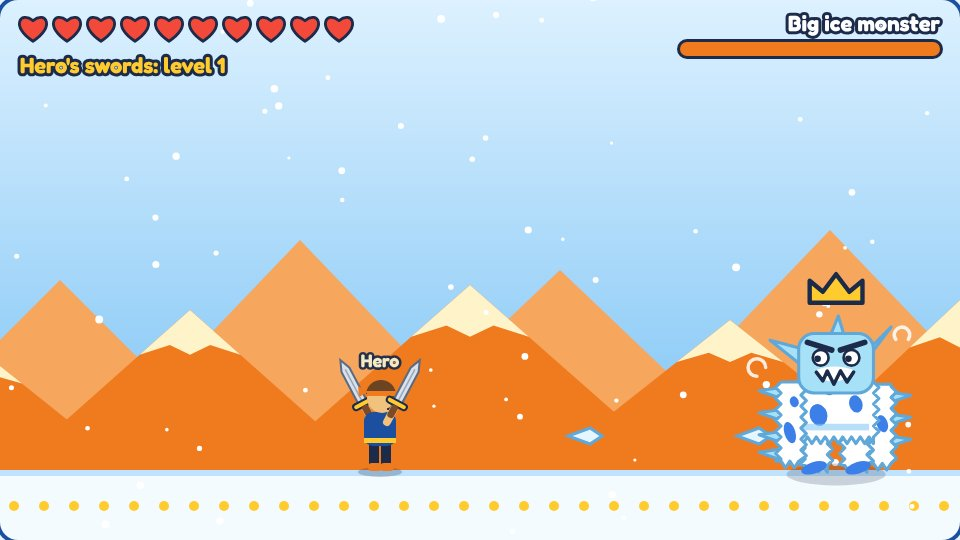
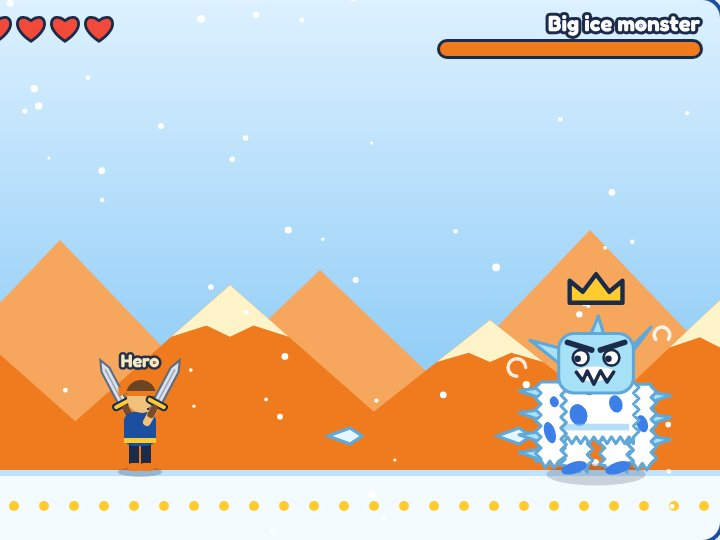
Crop the game card picture so the ice monster shows
Claude-Session: https://claude.ai/code/session_01Y5w9XL23iS9NDgHbyChrMS

diff --git a/index.html b/index.html
@@ -181,7 +181,7 @@
       <div class="sec-head"><span class="pin" style="background:var(--sky)" aria-hidden="true">5</span><h2 id="h-made">Made by Teddy</h2></div>
       <div class="grid">
         <figure class="art"><video src="movies/icy-cat-walk.mp4" poster="movies/icy-cat-walk.jpg" controls playsinline preload="none" width="1280" height="984" aria-label="The Icy Cat Walk, a ScratchJr movie by Teddy"></video><figcaption>The Icy Cat Walk</figcaption></figure>
-        <a class="game-card" href="sword-game/"><img src="sword-game/cover.jpg" width="960" height="540" alt="Teddy's Sword Game: a hero with two swords facing Teddy's big ice monster in front of orange mountains"><span class="game-name">Teddy's Sword Game</span><span class="play">Play it!</span></a>
+        <a class="game-card" href="sword-game/"><img src="sword-game/cover.jpg" width="720" height="540" alt="Teddy's Sword Game: a hero with two swords facing Teddy's big ice monster in front of orange mountains"><span class="game-name">Teddy's Sword Game</span><span class="play">Play it!</span></a>
       </div>
       <a class="back" href="#trail">Back to the trail</a>
     </section>
